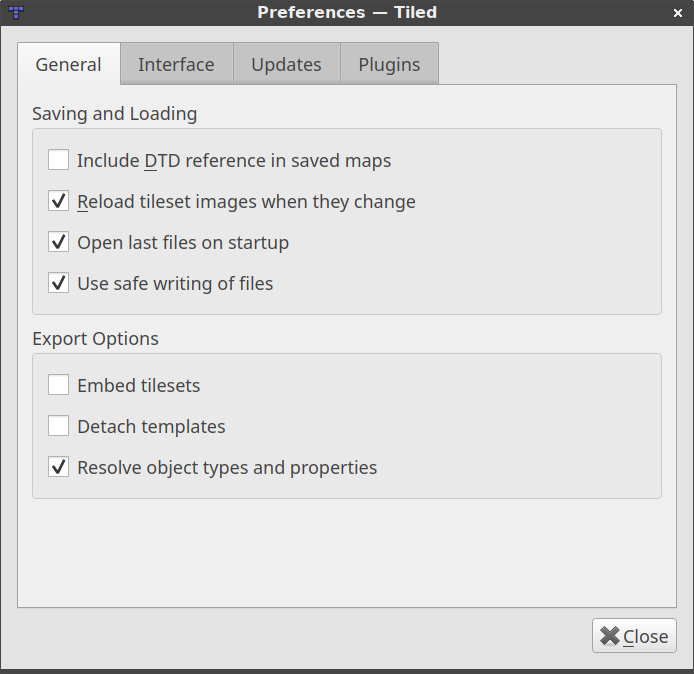
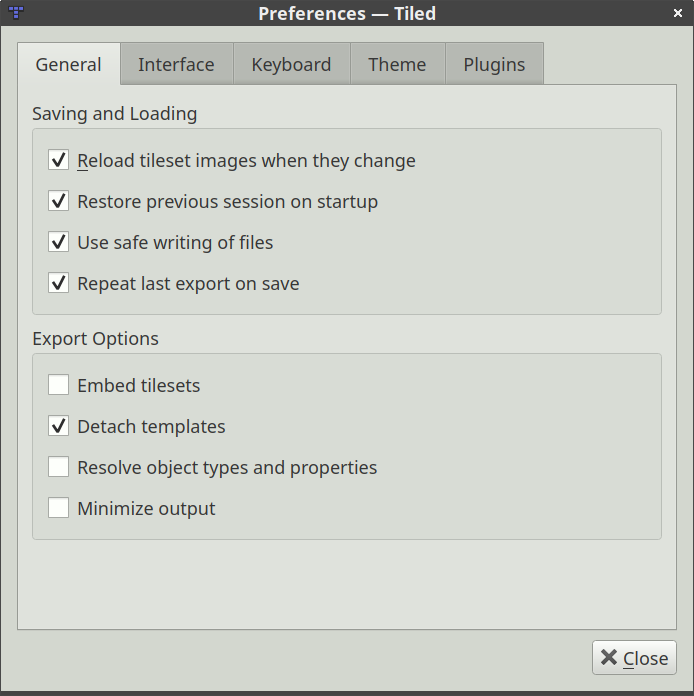
docs: Corrections based on translator comments
Many thanks to RhenaudTheLukark!

diff --git a/docs/manual/preferences.rst b/docs/manual/preferences.rst
@@ -3,7 +3,7 @@ User Preferences
 
 There are only a few options located in the Preferences, accessible
 though the menu via *Edit > Preferences*. Most other options, like
-whether to draw the grid, what kind snapping to do or the last used
+whether to draw the grid, what kind of snapping to do or the last used
 settings when creating a new map are simply remembered persistently.
 
 The preferences are stored in a system-dependent format and location:
@@ -28,19 +28,13 @@ General
 Saving and Loading
 ~~~~~~~~~~~~~~~~~~
 
-Include DTD reference in saved maps
-    This option is not enabled by default, since it is of very little
-    use whereas it can in some environments cause problems. Feel free to
-    enable it if it helps with validation for example, but note that the
-    referenced DTD is likely out of date (there is a somewhat more up-to-date
-    XSD file available in the repository).
-
 Reload tileset images when they change
     This is very useful while working on the tiles or when the tiles
     might change as a result of a source control system.
 
-Open last files on startup
-    Generally a useful thing to keep enabled.
+Restore previous session on startup
+    When disabled, Tiled always starts with an empty session. This can be
+    useful when you frequently switch projects.
 
 Use safe writing of files
     This setting causes files to be written to a temporary file, and
@@ -49,6 +43,11 @@ Use safe writing of files
     disk space. Unfortunately, it is known to cause issues when saving
     files to a Dropbox folder or a network drive, in which case it helps
     to disable this feature.
+
+Repeat last export on save
+    With this feature enabled, any time you save a map or tileset that was
+    previously exported it will automatically be exported again to the same
+    location and format.
 
 .. raw:: html
 

diff --git a/docs/manual/export-yy.rst b/docs/manual/export-yy.rst
@@ -25,10 +25,10 @@ as background layers.
    to replace an already existing ``room.yy`` file.
 
    If you want to do this while GameMaker is running with the open project
-   you'll need to deactivate "Use save writing of files" in the Tiled
+   you'll need to deactivate "Use safe writing of files" in the Tiled
    preferences (Under *Edit -> Preferences -> General -> Saving and Loading*).
    Otherwise GameMaker will detect that the room file got deleted and will
-   propose to restore it from memory. Without "save writing" GameMaker will
+   propose to restore it from memory. Without "safe writing" GameMaker will
    detect that the file got changed and propose to reload the updated one.
 
 .. _yy-asset-references:

diff --git a/docs/manual/using-commands.rst b/docs/manual/using-commands.rst
@@ -46,10 +46,10 @@ Shortcut
     A custom key sequence to trigger the command. You can use 'Clear'
     to reset the shortcut.
 
-Output in Debug Console
+Show output in Console view
     If this is enabled, then the output (stdout and stderr) of this
-    command will be displayed in the Debug Console. You can find the
-    Debug Console in *View > Views and Toolbars > Debug Console*.
+    command will be displayed in the Console. You can find the
+    Console in *View > Views and Toolbars > Console*.
 
 Save map before executing
     If this is enabled, then the current map will be saved before

diff --git a/docs/manual/worlds.rst b/docs/manual/worlds.rst
@@ -78,7 +78,7 @@ Adding Maps
     from the dropdown menu select the world you want to add it to. To add a
     different map to the current world, you can use the 'Add another map to
     the current world' button from the toolbar. Alternatively, both actions
-    can be accessed by rightclicking in the  map editor.
+    can be accessed by rightclicking in the map editor.
 
 Removing Maps
     Hit the 'Remove the current map from the current world' button on the 

diff --git a/docs/manual/python.rst b/docs/manual/python.rst
@@ -24,7 +24,7 @@ There are several `example scripts`_ available in the repository.
 .. note::
 
     To create the ``~/.tiled`` folder on Windows, open command prompt
-    (``cmd.exe``), which should  start in your home folder by default, then
+    (``cmd.exe``), which should start in your home folder by default, then
     type ``mkdir .tiled`` to create the folder.
 
     On Linux, folders starting with a dot are hidden by default. In most file
